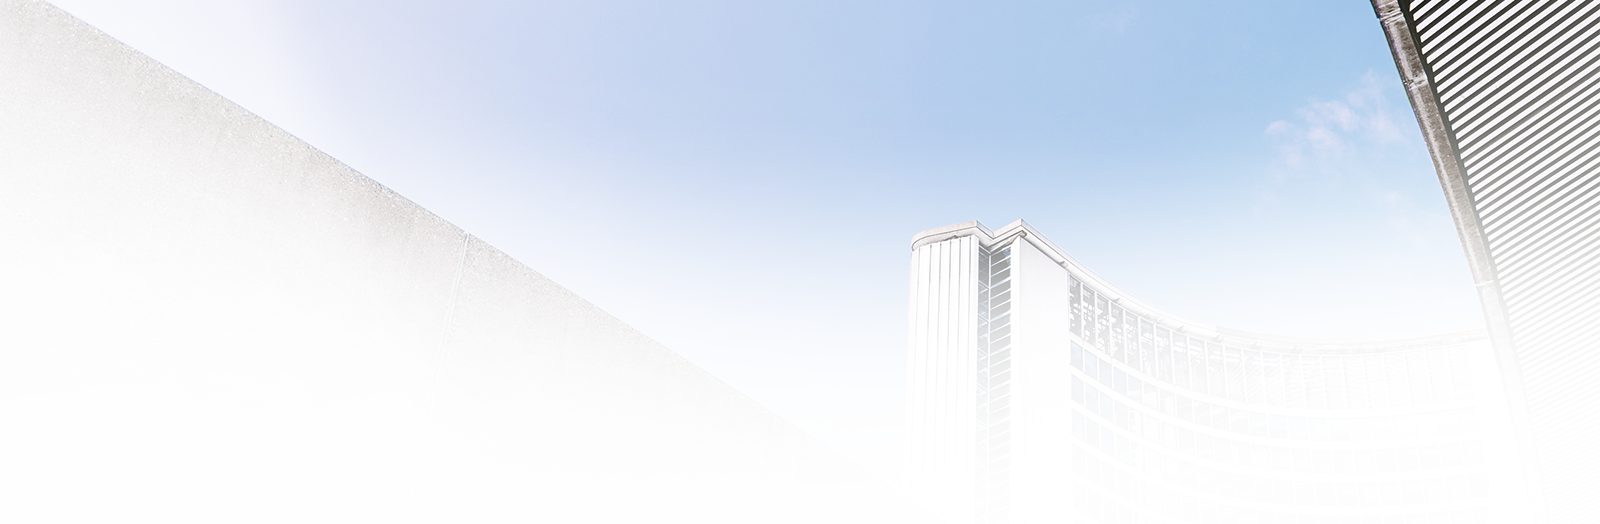
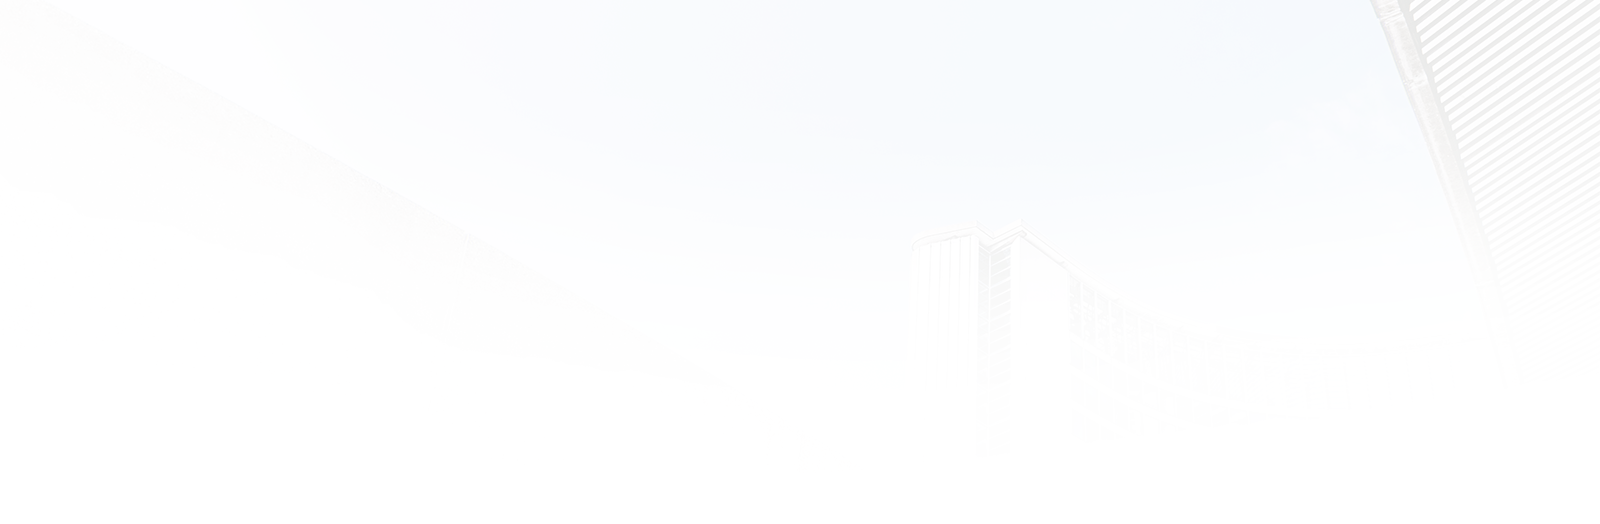
bugfix

diff --git a/lesson-36-exam-2/css/style.css b/lesson-36-exam-2/css/style.css
@@ -1226,7 +1226,9 @@ button:hover {
 
 .footer {
   padding: 203px 0 206px;
-  background-image: linear-gradient(45deg, #55b7ff 0%, #7e5aff 100%);
+  background-image: url(../img/footer-bg.png), linear-gradient(45deg, #55b7ff 0%, #7e5aff 100%);
+  background-repeat: no-repeat;
+  background-position: bottom;
 }
 @media only screen and (max-width: 479px) {
   .footer {

diff --git a/lesson-36-exam-2/scss/_footer.scss b/lesson-36-exam-2/scss/_footer.scss
@@ -1,6 +1,8 @@
 .footer {
     padding: 203px 0 206px;
-    background-image: $gradient;
+    background-image: url(../img/footer-bg.png), $gradient;
+    background-repeat: no-repeat;
+    background-position: bottom;
 
     @include phone {
         padding: 203px 0 130px;
